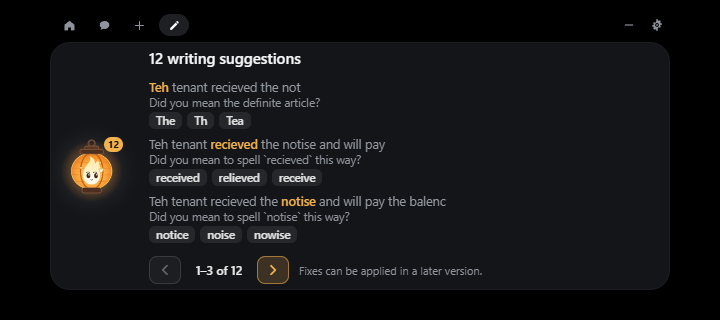
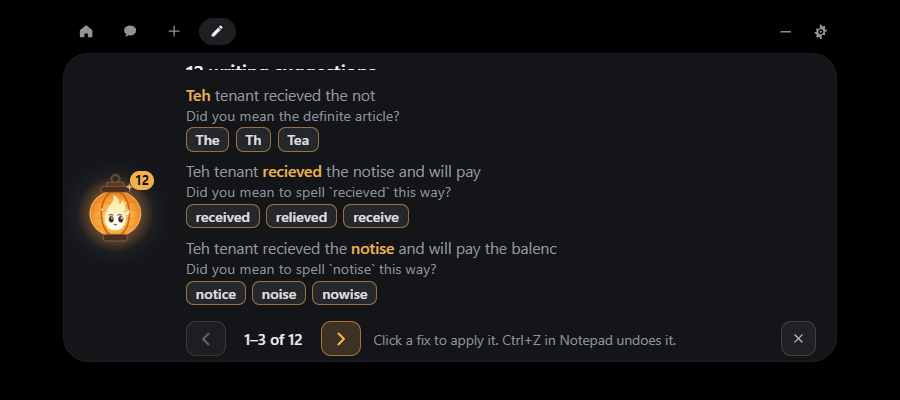
Self-tests pass (read-only and typed, Notepad); PROJECT_STATUS results; open issue 4 (approval key hints)
Claude-Session: https://claude.ai/code/session_01LTcouUkr5VjuBHRABipM26

diff --git a/PROJECT_STATUS.md b/PROJECT_STATUS.md
@@ -115,6 +115,7 @@ A local-first Windows desktop companion.
   1. **A usage limit offered "Open in n8n".** When Claude Code hit its usage limit, the card said "Session stopped on an error" with "Retry" and "Open in n8n". The session was Claude Code in Windows Terminal, so the button should open the terminal. To do: find why it picked n8n (the card's app/terminal detection).
   2. **A usage or spend limit should be its own state**, not an error: "Usage limit, resets 2 PM" when the reset time is known, and no Retry before the reset.
   3. **Glim can't be dragged while a card with buttons is showing.** Dragging should work from the lantern or the top bar in every state, without triggering the card's buttons.
+  4. **Approval cards' key hints don't work.** They show "Deny (N)" and "Allow (Y)"; clicking reaches Claude Code, but pressing Y/N does nothing: Glim never takes focus, so the keys go to whatever app is in front. Owner's proposal: a global **Deny** shortcut (Ctrl+Alt+Shift+N, conflict-checked like the other hotkeys); **Allow** by click only, or by a shortcut that works only right after the user opened that alert. **Never allow with a single global key.** The button hints must match whatever shortcuts actually work.
 
 ## Open questions
 - At Phase 3 build time, verify whether Claude Code and Codex CLI can run on a subscription login rather than API keys, and check their current headless flags and permission syntax.
@@ -269,8 +270,11 @@ Design: `docs/phase1-plan.md` §7, approved by the owner 2026-10-11 with the ans
 - **Privacy change (called out in the PR):** to find the text again, the checked paragraph (not the field) is now kept in memory while its suggestions show, only in fix fields, and after a second card/SSN/IBAN scan. It is dropped on Dismiss (new button on the list), on moving to other text (another field, app or paragraph, or an edit), on Pause (the island now tells Rust, which also stops reading fields), and after 10 minutes at most. Never logged or stored; the log gets the outcome code and the app's short name only (`writing: fix applied (Notepad)`). Each drop rule has a test.
 - **Plan amendments while building** (warning notes in §7.3): `FindText` isn't used (Word limits search length; the paragraph is located in read-back text instead); an IME composition can't be detected from another process (the read-back covers it).
 - **Tests:** `cargo test --workspace` 285 + 30 (13 apply-step tests on a fake field: found once/zero/twice, edits inside vs elsewhere, unit mismatch, selection ignored, keys held, focus lost after selecting, keys that never land, a result that doesn't read back, removal, caret; 15 session tests: each drop rule, stale list, ids-only job, view/copy modes, replacement filter, the commands' ids-only signatures). `npm test` 350 (buttons per mode, ids-only Bridge calls, Copy, Dismiss, a note per outcome, Pause wiring). `tsc` clean. 18 new strings × 9 languages.
-- **Build:** `glim.exe` built 2026-10-11 14:08, 11,806,720 bytes (contains `writing_fix` / `writing_set_paused`).
-- **Not yet run:** the read-only Notepad self-test (`verify-writing-notepad.ps1` now checks the fix button, "Click in the field first" when focus moves to a Notepad button, and Dismiss; it never invokes a fix): it moves focus, and another app was in front, so it waits for the owner. The **typed** Notepad self-test runs only after the owner says they're away from the keyboard. The owner tests Outlook, Word and Gmail by hand.
+- **Self-tests (2026-10-11, owner away from the keyboard; `glim.exe` built 15:22, 11,806,720 bytes, installed per-user):**
+  - **Read-only** (`verify-writing-notepad.ps1`, never invokes a fix): PASS twice (14:48 and 15:22 builds). Fix button "Replace with “received”" enabled with "Click a fix to apply it. Ctrl+Z in Notepad undoes it."; focus moved to Notepad's "Add New Tab" button → buttons off with "Click in the field first."; back in the text → on again; Dismiss → count gone and stays gone. All of 1a's checks still pass. Screenshot (Glim's window only): `docs/verification/writing-notepad/suggestions-fix-buttons.png`.
+  - **Typed, Notepad only** (`verify-fix-notepad.ps1`): PASS at 15:23. "We recieved the payment today." → the fix → "We received the payment today."; caret back where it was; island note "Fixed. Ctrl+Z in Notepad undoes it."; log `writing: fix applied (Notepad)`; **one Ctrl+Z** restored the typo; no test text in `glim.log`. Log: `docs/verification/fix-notepad/verify-log.txt`.
+  - **Found and fixed on the way:** (1) `SendInput` only queues keys, so the first read-back saw a half-typed word and reported not-clean although the fix had landed: the read-back now waits up to ~1.5 s for the keys (test added). (2) After the last fix the list closed at once, hiding "Fixed…": it now stays open. (3) A UI Automation Invoke on Glim's island activates its window (Chromium), after which Glim rightly refuses a fix (the field's app isn't in front); a real mouse click on the non-activating island doesn't. The typed test therefore clicks through the dev switch `--dev-fix <word>` (a DOM click inside the island, dev sessions only), not UIA Invoke.
+- **Owner tests next:** Outlook, Word and Gmail by hand.
 
 ## Text-capture spike (Phase 0b)
 Branch `phase-0b-capture`. Results and the Phase 1 plan: `docs/capture-results.md`.
